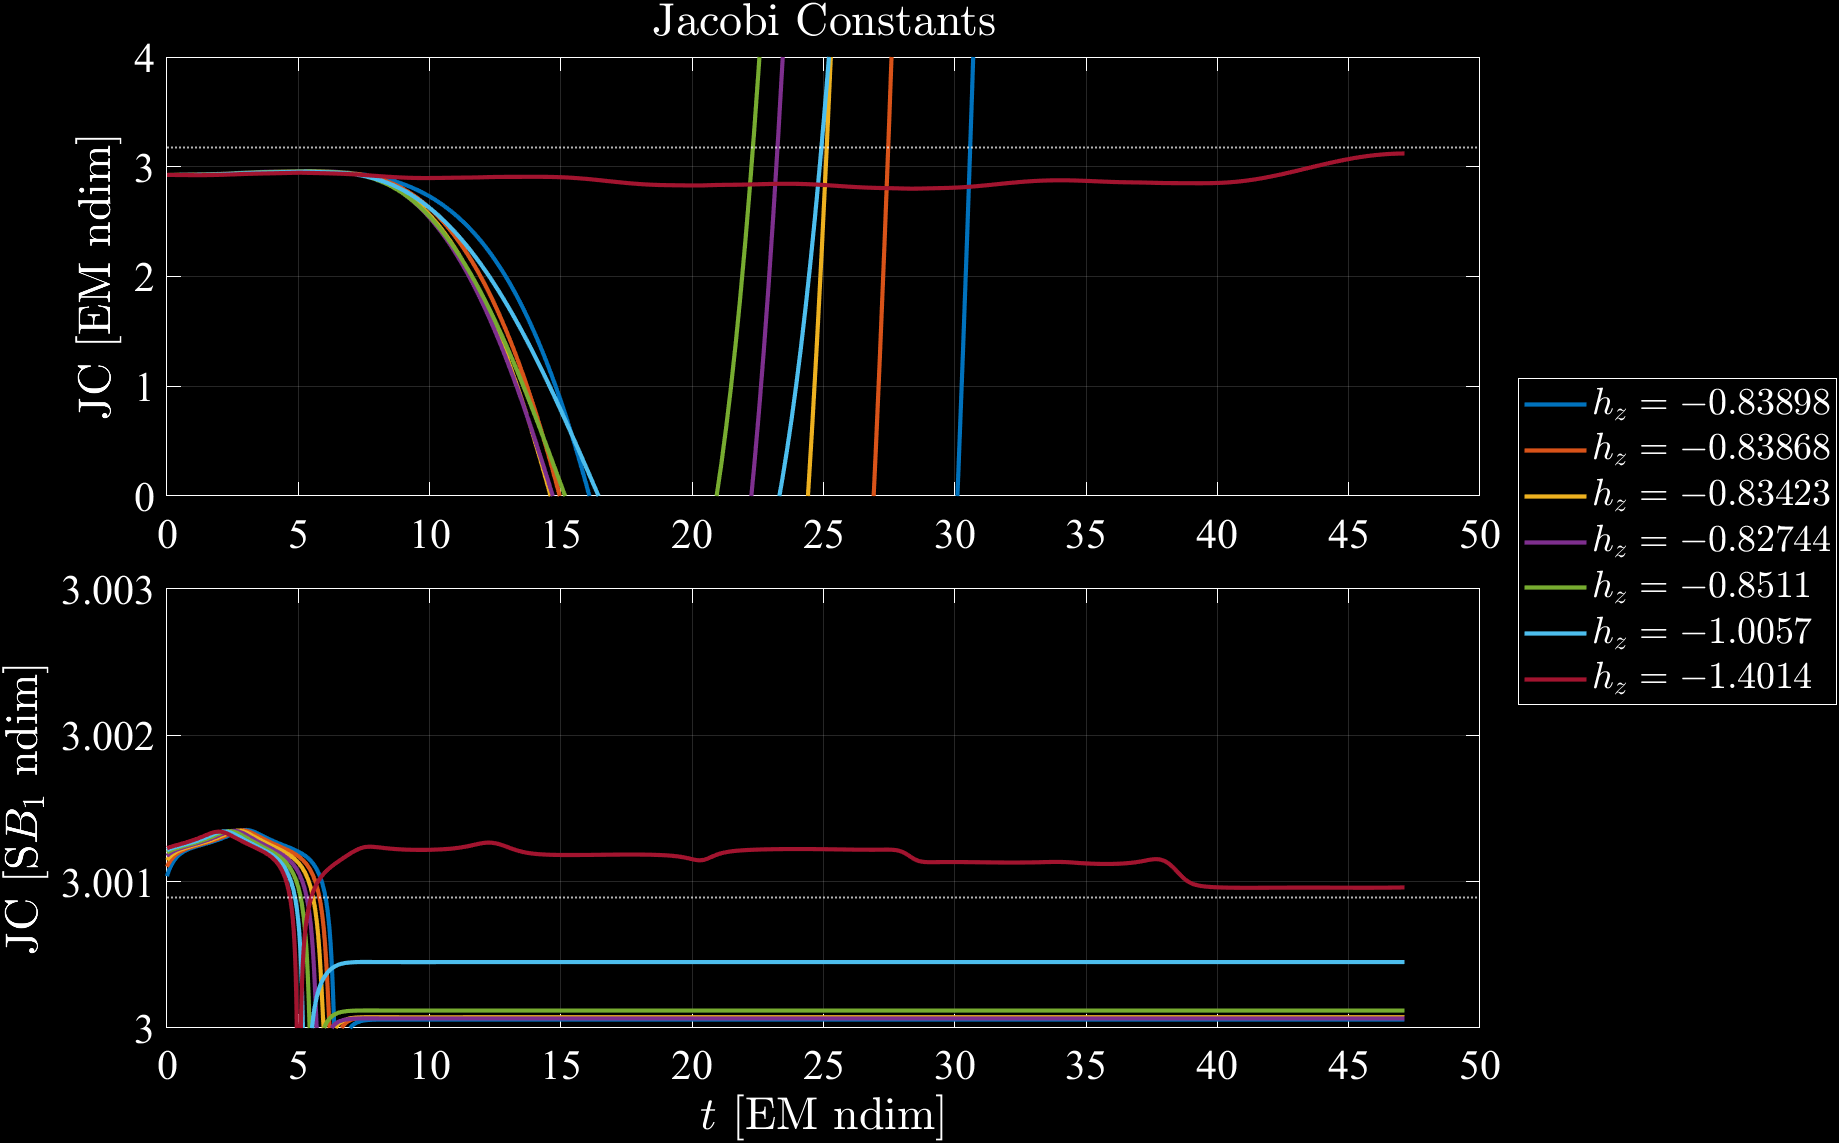
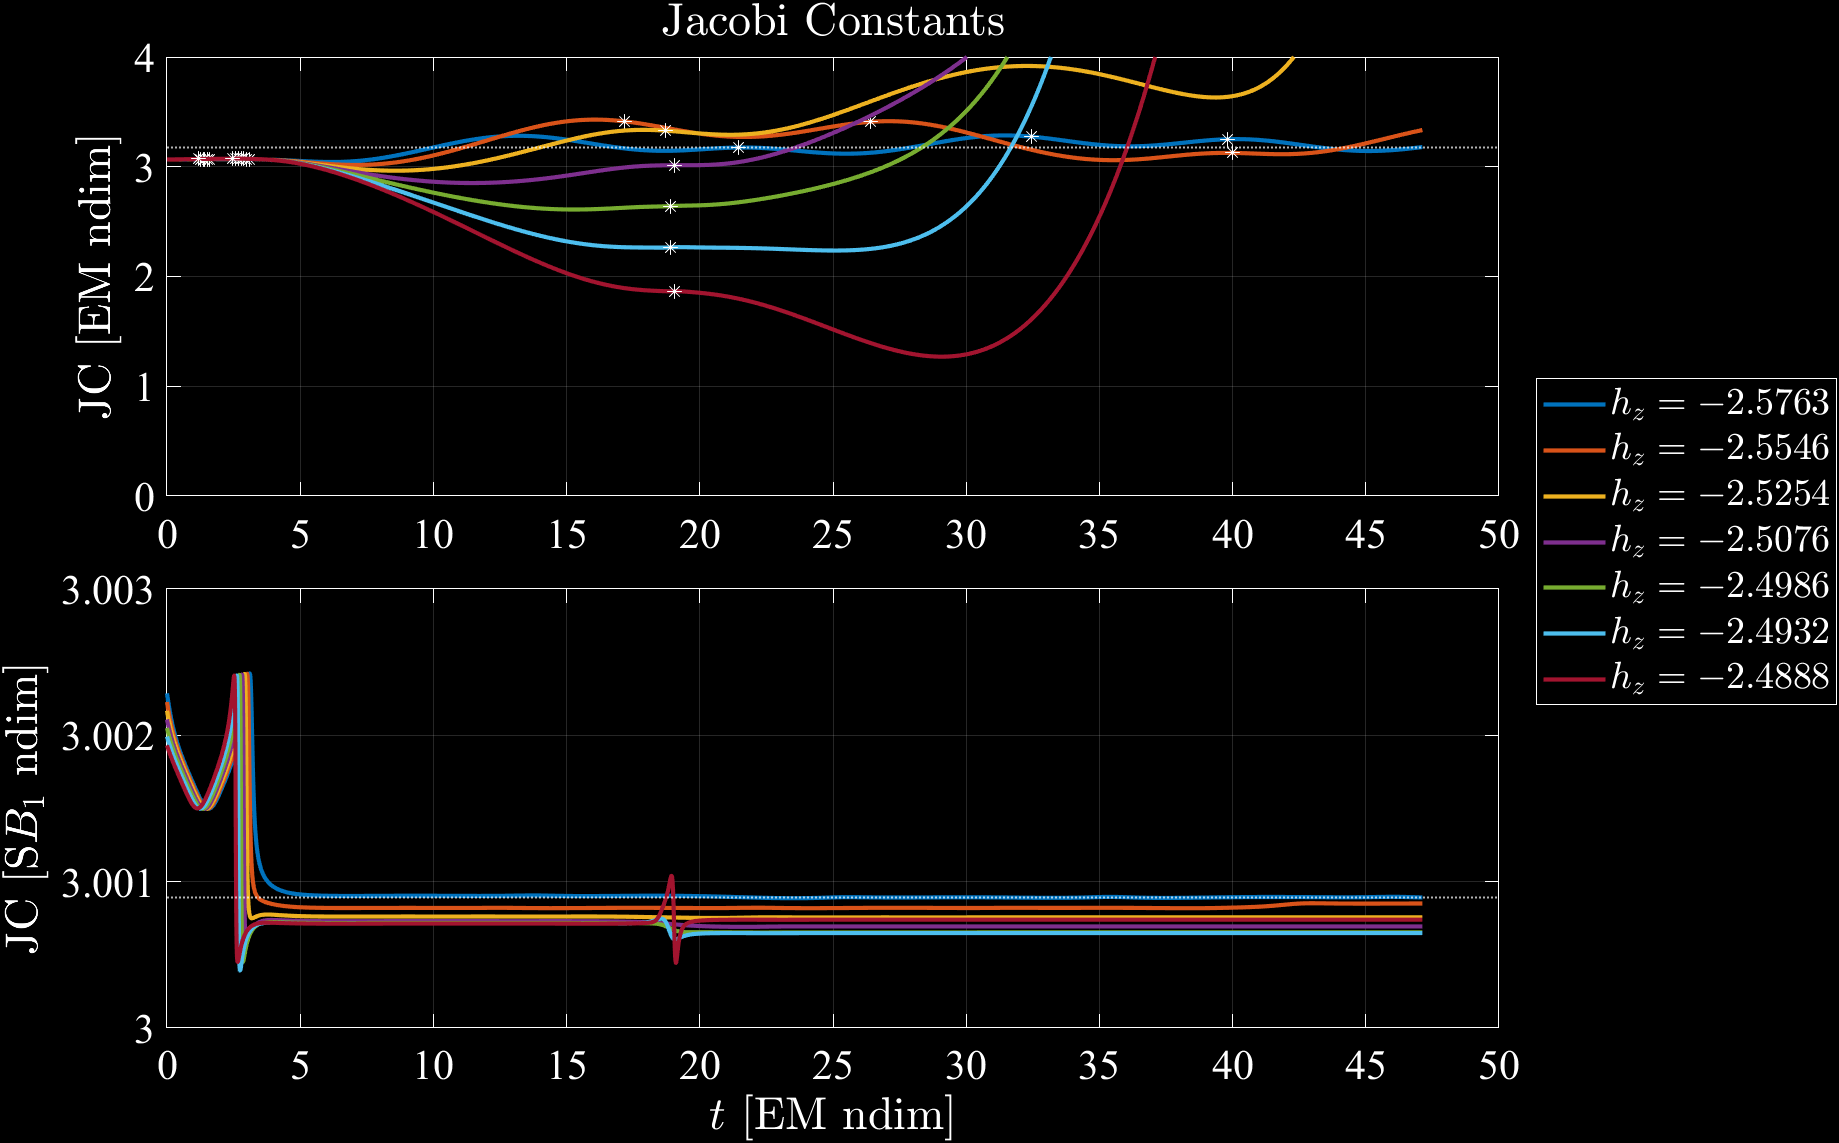
Created PeriapsisMap.m and updated EscapeAnalysis script

diff --git a/EscapeAnalysis.m b/EscapeAnalysis.m
@@ -1,7 +1,7 @@
 %%% EscapeAnalysis.jl
 %%% Jonathan Richmond
 %%% C: 22 September 2025
-%%% U: 7 October 2025
+%%% U: 24 October 2025
 
 clear
 load('../PhDScripts/Output/EscapeAnalysis.mat')
@@ -21,7 +21,7 @@ lstar = 3.8474799201129237E5; % Characteristic length [km]
 tstar = sqrt(lstar^3/(gmE+gmm)); % Characteristic time [s]
 
 % RH = 1.496557260502363E6; % Hills radius [km]
-RH = 600000;
+RH = 750000; % Escape radius [km]
 
 %% Sun-B1 Data
 gmS = 1.327124400419393E11; % Sun gravitational parameter [km^3/s^2]
@@ -49,7 +49,7 @@ for j = 1:length(trajs)
 end
 % plot3(BCR4BPManifold.orbit.x, BCR4BPManifold.orbit.y, BCR4BPManifold.orbit.z, 'b', 'DisplayName', "BCR4BP Orbit")
 plot3(CR3BPCompOrbit.x, CR3BPCompOrbit.y, CR3BPCompOrbit.z, 'r', 'DisplayName', "CR3BP Orbit")
-plot3(RH/lstar*cos(linspace(0, 2*pi, 101))-mu, RH/lstar*sin(linspace(0, 2*pi, 101)), zeros(1, 101), 'w:', 'DisplayName', "Hills Radius")
+plot3(RH/lstar*cos(linspace(0, 2*pi, 101)), RH/lstar*sin(linspace(0, 2*pi, 101)), zeros(1, 101), 'w:', 'DisplayName', "Hills Radius")
 axis equal
 grid on
 xlabel("$x$ [EM ndim]", 'Interpreter', 'latex')
@@ -176,21 +176,21 @@ set(B1, 'DisplayName', "Earth")
 SB1Trajs = [SB1Trajectory1, SB1Trajectory2, SB1Trajectory3, SB1Trajectory4, SB1Trajectory5, SB1Trajectory6, SB1Trajectory7];
 for j = 1:length(SB1Trajs)
     color = colors(mod(j-1, nColors)+1,:);
-    plot3(SB1Trajs(j).x(1:end-150), SB1Trajs(j).y(1:end-150), SB1Trajs(j).z(1:end-150), 'Color', color, 'DisplayName', "Escape Traj. "+num2str(j))
-    dot_SB1 = zeros(length(SB1Trajs(j).x(1:end-150)), 1);
+    plot3(SB1Trajs(j).x(1:end-50), SB1Trajs(j).y(1:end-50), SB1Trajs(j).z(1:end-50), 'Color', color, 'DisplayName', "Escape Traj. "+num2str(j))
+    dot_SB1 = zeros(length(SB1Trajs(j).x(1:end-50)), 1);
     for k = 1:length(dot_SB1)
         dot_SB1(k) = dot([SB1Trajs(j).x(k)-1+muSB1, SB1Trajs(j).y(k) SB1Trajs(j).z(k)], [SB1Trajs(j).xdot(k), SB1Trajs(j).ydot(k), SB1Trajs(j).zdot(k)]);
     end
-    apse = find((dot_SB1(1:end-1) > 0) & (dot_SB1(2:end) <= 0))+1;
+    apse = find((dot_SB1(1:end-1) < 0) & (dot_SB1(2:end) >= 0))+1;
     for k = 1:length(apse)
         scatter3(SB1Trajs(j).x(apse(k)), SB1Trajs(j).y(apse(k)), SB1Trajs(j).z(apse(k)), 50, 'w', '*', 'HandleVisibility', 'off')
     end
 end
 % plot3(RH/lstarSB1*cos(linspace(0, 2*pi, 101))+1-muSB1, RH/lstarSB1*sin(linspace(0, 2*pi, 101)), zeros(1, 101), 'w:', 'DisplayName', "Hills Radius")
 plot3(RH/lstarSB1*cos(linspace(0, 2*pi, 101))+1-muSB1, RH/lstarSB1*sin(linspace(0, 2*pi, 101)), zeros(1, 101), 'w:', 'DisplayName', "Escape Radius")
-for j = 1:length(L1StableMan.arcs)
-    plot3(L1StableMan.arcs{j}.x, L1StableMan.arcs{j}.y, L1StableMan.arcs{j}.z, 'b', 'LineWidth', 0.5, 'HandleVisibility', 'off')
-end
+% for j = 1:length(L1StableMan.arcs)
+%     plot3(L1StableMan.arcs{j}.x, L1StableMan.arcs{j}.y, L1StableMan.arcs{j}.z, 'b', 'LineWidth', 0.5, 'HandleVisibility', 'off')
+% end
 % for j = 1:length(L2StableMan.arcs)
 %     plot3(L2StableMan.arcs{j}.x, L2StableMan.arcs{j}.y, L2StableMan.arcs{j}.z, 'c', 'LineWidth', 0.5, 'HandleVisibility', 'off')
 % end
@@ -200,7 +200,7 @@ xlabel("$x$ [S$B_{1}$ ndim]", 'Interpreter', 'latex')
 ylabel("$y$ [S$B_{1}$ ndim]", 'Interpreter', 'latex')
 zlabel("$z$ [S$B_{1}$ ndim]", 'Interpreter', 'latex')
 title("Sun-$B_{1}$ Rot.", 'Interpreter', 'latex')
-leg1 = legend('Location', 'bestoutside', 'Interpreter', 'latex');
+leg5 = legend('Location', 'bestoutside', 'Interpreter', 'latex');
 set(gca, 'Color', 'k');
 view(2)
 hold off
@@ -241,7 +241,7 @@ for j = 1:size(t, 1)
     for k = 1:length(dot_SB1)
         dot_SB1(k) = dot([SB1Trajs(j).x(k)-1+muSB1, SB1Trajs(j).y(k) SB1Trajs(j).z(k)], [SB1Trajs(j).xdot(k), SB1Trajs(j).ydot(k), SB1Trajs(j).zdot(k)]);
     end
-    apse = find((dot_SB1(1:end-1) > 0) & (dot_SB1(2:end) <= 0))+1;
+    apse = find((dot_SB1(1:end-1) < 0) & (dot_SB1(2:end) >= 0))+1;
     for k = 1:length(apse)
         scatter(SB1Trajs(j).t(apse(k)), e_osc_E{j}(apse(k)), 50, 'w', '*', 'HandleVisibility', 'off')
     end
@@ -258,7 +258,7 @@ leg6.Layout.Tile = 'east';
 leg6.Interpreter = 'latex';
 % exportgraphics(fig6, 'EscapeAnalysis_6.png', 'BackgroundColor', 'k')
 
-%% Jacobi Constants
+%% Jacobi Constants and Hamiltonians
 fig7 = figure("Position", [200 100 1200 750]);
 t7 = tiledlayout(2,1);
 t7.TileSpacing = 'compact';
@@ -269,6 +269,14 @@ ps = gobjects(size(t, 1), 1);
 for j = 1:size(t, 1)
     color = colors(mod(j-1, nColors)+1,:);
     ps(j) = plot(t{j}, JC_EM{j}, 'Color', color, 'DisplayName', "$h_{z}="+num2str(h_z(j))+"$");
+    dot_SB1 = zeros(length(SB1Trajs(j).x(1:end-10)), 1);
+    for k = 1:length(dot_SB1)
+        dot_SB1(k) = dot([SB1Trajs(j).x(k)-1+muSB1, SB1Trajs(j).y(k) SB1Trajs(j).z(k)], [SB1Trajs(j).xdot(k), SB1Trajs(j).ydot(k), SB1Trajs(j).zdot(k)]);
+    end
+    apse = find((dot_SB1(1:end-1) < 0) & (dot_SB1(2:end) >= 0))+1;
+    for k = 1:length(apse)
+        scatter(t{j}(apse(k)), JC_EM{j}(apse(k)), 50, 'w', '*', 'HandleVisibility', 'off')
+    end
 end
 yline(JC_EM_L2, 'w:', 'LineWidth', 1, 'HandleVisibility', 'off')
 ylim(ax1, [0 4])
@@ -293,3 +301,37 @@ leg7 = legend(ps);
 leg7.Layout.Tile = 'east';
 leg7.Interpreter = 'latex';
 % exportgraphics(fig7, 'EscapeAnalysis_7.png', 'BackgroundColor', 'k')
+
+fig8 = figure("Position", [200 100 1200 750]);
+t8 = tiledlayout(2,1);
+t8.TileSpacing = 'compact';
+t8.Padding = 'compact';
+ax1 = nexttile;
+hold on
+ps = gobjects(size(t, 1), 1);
+for j = 1:size(t, 1)
+    color = colors(mod(j-1, nColors)+1,:);
+    ps(j) = plot(t{j}, H_EM{j}, 'Color', color, 'DisplayName', "$h_{z}="+num2str(h_z(j))+"$");
+end
+ylim(ax1, [1692 1696])
+grid on
+ylabel("$H_{EM}$ [EM ndim]", 'Interpreter', 'latex')
+title("Hamiltonians", 'Interpreter', 'latex')
+hold off
+ax2 = nexttile;
+hold on
+for j = 1:size(t, 1)
+    color = colors(mod(j-1, nColors)+1,:);
+    plot(t{j}, SB1Trajs(j).H, 'Color', color, 'HandleVisibility', 'off')
+end
+yline(H_E2, 'w:', 'LineWidth', 1, 'HandleVisibility', 'off')
+ylim(ax2, [3.0 3.004])
+grid on
+ylabel("$H_{SB_{1}}$ [S$B_{1}$ ndim]", 'Interpreter', 'latex')
+hold off
+xlabel("$t$ [EM ndim]", 'Interpreter', 'latex')
+linkaxes([ax1, ax2], 'x')
+leg8 = legend(ps);
+leg8.Layout.Tile = 'east';
+leg8.Interpreter = 'latex';
+% exportgraphics(fig8, 'EscapeAnalysis_8.png', 'BackgroundColor', 'k')

diff --git a/PeriapsisMap.m b/PeriapsisMap.m
@@ -1,0 +1,120 @@
+%%% PeriapsisMap.jl
+%%% Jonathan Richmond
+%%% C: 24 October 2025
+
+clear
+load('../PhDScripts/Output/PeriapsisMap.mat')
+
+%% Earth-Moon Data
+gmE = 3.9860043543609593E5; % Earth gravitational parameter [km^3/s^2]
+mE = gmE/6.67384E-20; % Earth mass [kg]
+RE = 6.371008366666666E3; % Earth radius [km]
+
+gmm = 4.9028000661637961E3; % Moon gravitational parameter [km^3/s^2]
+mm = gmm/6.67384E-20; % Moon mass [kg]
+Rm = 1.7374000000000003E3; % Moon radius [km]
+
+mu = gmm/(gmE+gmm); % Mass ratio
+mstar = (gmE+gmm)/6.67384E-20; % Characteristic mass [kg]
+lstar = 3.8474799201129237E5; % Characteristic length [km]
+tstar = sqrt(lstar^3/(gmE+gmm)); % Characteristic time [s]
+
+RH = 1.496557260502363E6; % Hills radius [km]
+
+%% Sun-B1 Data
+gmS = 1.327124400419393E11; % Sun gravitational parameter [km^3/s^2]
+mS = gmS/6.67384E-20; % Sun mass [kg]
+RS = 6.96E5; % Sun radius [km]
+
+gmB1 = gmE+gmm; % B1 gravitational parameter [km^3/s^2]
+mB1 = gmB1/6.67384E-20; % B1 mass [kg]
+
+muSB1 = gmB1/(gmS+gmB1); % Mass ratio
+mstarSB1 = (gmS+gmB1)/6.67384E-20; % Characteristic mass [kg]
+lstarSB1 = 1.4959789401764473E8; % Characteristic length [km]
+tstarSB1 = sqrt(lstarSB1^3/(gmS+gmB1)); % Characteristic time [s]
+
+%% Sun-B1 Periapsis Map
+fig1 = figure("Position", [200 100 1200 750]);
+hold on
+colors = zeros(length(flags), 3);
+x = zeros(length(flags), 1);
+y = zeros(length(flags), 1);
+parfor j = 1:length(points)
+    switch flags(j)
+        case 0
+            colors(j,:) = [0, 0, 0];
+        case {1, 2}
+            colors(j,:) = [1, 0, 0];
+        case 3
+            colors(j,:) = 0.7*[1, 1, 1];
+        case 4
+            colors(j,:) = [0, 0, 1];
+        case 5
+            colors(j,:) = [0, 1, 1];
+        case 6
+            colors(j,:) = [0, 1, 0];
+    end
+    x(j) = points{j}(1);
+    y(j) = points{j}(2);
+end
+scatter(x, y, 3, colors, 'filled', 'HandleVisibility', 'off')
+B1 = plot3DBody("Earth", RE/lstarSB1, [1-muSB1, 0, 0]);
+set(B1, 'DisplayName', "Earth")
+scatter(lstar/lstarSB1*cos(moonAngle)+1-muSB1, lstar/lstarSB1*sin(moonAngle), 20, 'w', 'filled', 'DisplayName', "Moon")
+plot(lstar/lstarSB1*cos(linspace(0, 2*pi, 101))+1-muSB1, lstar/lstarSB1*sin(linspace(0, 2*pi, 101)), 'w:', 'DisplayName', "Moon Radius")
+% plot(RH/lstarSB1*cos(linspace(0, 2*pi, 101))+1-muSB1, RH/lstarSB1*sin(linspace(0, 2*pi, 101)), 'w--', 'DisplayName', "Hills Radius")
+scatter(nan, nan, 20, [1, 0, 0], 'filled', 'DisplayName', "Impact")
+scatter(nan, nan, 20, 0.7*[1, 1, 1], 'filled', 'DisplayName', "Capture")
+scatter(nan, nan, 20, [0, 0, 1], 'filled', 'DisplayName', "Direct Escape")
+scatter(nan, nan, 20, [0, 1, 1], 'filled', 'DisplayName', "Escape + 1 Rev")
+scatter(nan, nan, 20, [0, 1, 0], 'filled', 'DisplayName', "Escape + 2 Revs")
+axis equal
+grid on
+xlabel("$x$ [S$B_{1}$ ndim]", 'Interpreter', 'latex')
+ylabel("$y$ [S$B_{1}$ ndim]", 'Interpreter', 'latex')
+title("Periapsis Map $JC_{EM}="+num2str(JC)+"$ $|$ $\theta_{M}="+num2str(moonAngle*180/pi)+"^\circ$", 'Interpreter', 'latex')
+leg1 = legend('Location', 'bestoutside', 'Interpreter', 'latex');
+set(gca, 'Color', 'k');
+view(2)
+hold off
+% exportgraphics(fig1, 'PeriapsisMap_1.png', 'BackgroundColor', 'k')
+
+%% Trajectory Plots
+% fig2 = figure("Position", [200 100 1200 750]);
+% hold on
+% B1 = plot3DBody("Earth", RE/lstarSB1, [1-muSB1, 0, 0]);
+% set(B1, 'DisplayName', "Earth")
+% plot(lstar/lstarSB1*cos(linspace(0, 2*pi, 101))+1-muSB1, lstar/lstarSB1*sin(linspace(0, 2*pi, 101)), 'w:', 'DisplayName', "Moon Radius")
+% plot(RH/lstarSB1*cos(linspace(0, 2*pi, 101))+1-muSB1, RH/lstarSB1*sin(linspace(0, 2*pi, 101)), 'w--', 'DisplayName', "Hills Radius")
+% plot(Traj41.x, Traj41.y, 'g', 'DisplayName', "Trajectory")
+% scatter(Traj41.x(1), Traj41.y(1), 50, 'w', '*', 'DisplayName', "S$B_{1}$ Peri.")
+% axis equal
+% grid on
+% xlabel("$x$ [S$B_{1}$ ndim]", 'Interpreter', 'latex')
+% ylabel("$y$ [S$B_{1}$ ndim]", 'Interpreter', 'latex')
+% title("Sun-$B_{1}$ Rot.", 'Interpreter', 'latex')
+% leg1 = legend('Location', 'bestoutside', 'Interpreter', 'latex');
+% set(gca, 'Color', 'k');
+% view(2)
+% hold off
+% % exportgraphics(fig2, 'PeriapsisMap_2.png', 'BackgroundColor', 'k')
+% 
+% fig3 = figure("Position", [200 100 1200 750]);
+% hold on
+% Earth = plot3DBody("Earth", RE/lstar, [-mu, 0, 0]);
+% set(Earth, 'DisplayName', "Earth")
+% Moon = plot3DBody("Moon", Rm/lstar, [1-mu, 0, 0]);
+% set(Moon, 'DisplayName', "Moon")
+% plot(Traj12.x, Traj12.y, 'g', 'DisplayName', "Trajectory")
+% scatter(Traj12.x(1), Traj12.y(1), 50, 'w', '*', 'DisplayName', "S$B_{1}$ Peri.")
+% axis equal
+% grid on
+% xlabel("$x$ [EM ndim]", 'Interpreter', 'latex')
+% ylabel("$y$ [EM ndim]", 'Interpreter', 'latex')
+% title("Earth-Moon Rot.", 'Interpreter', 'latex')
+% leg1 = legend('Location', 'bestoutside', 'Interpreter', 'latex');
+% set(gca, 'Color', 'k');
+% view(2)
+% hold off
+% % exportgraphics(fig3, 'PeriapsisMap_3.png', 'BackgroundColor', 'k')
